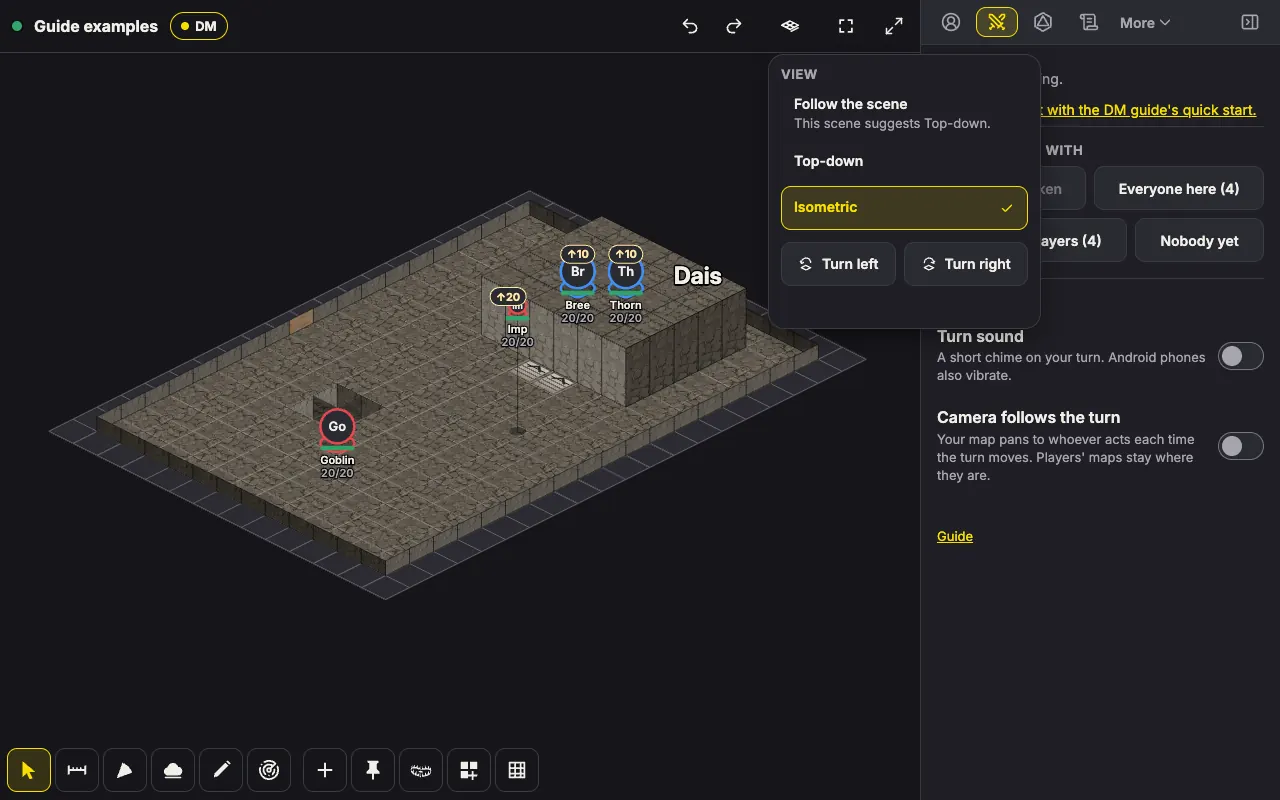
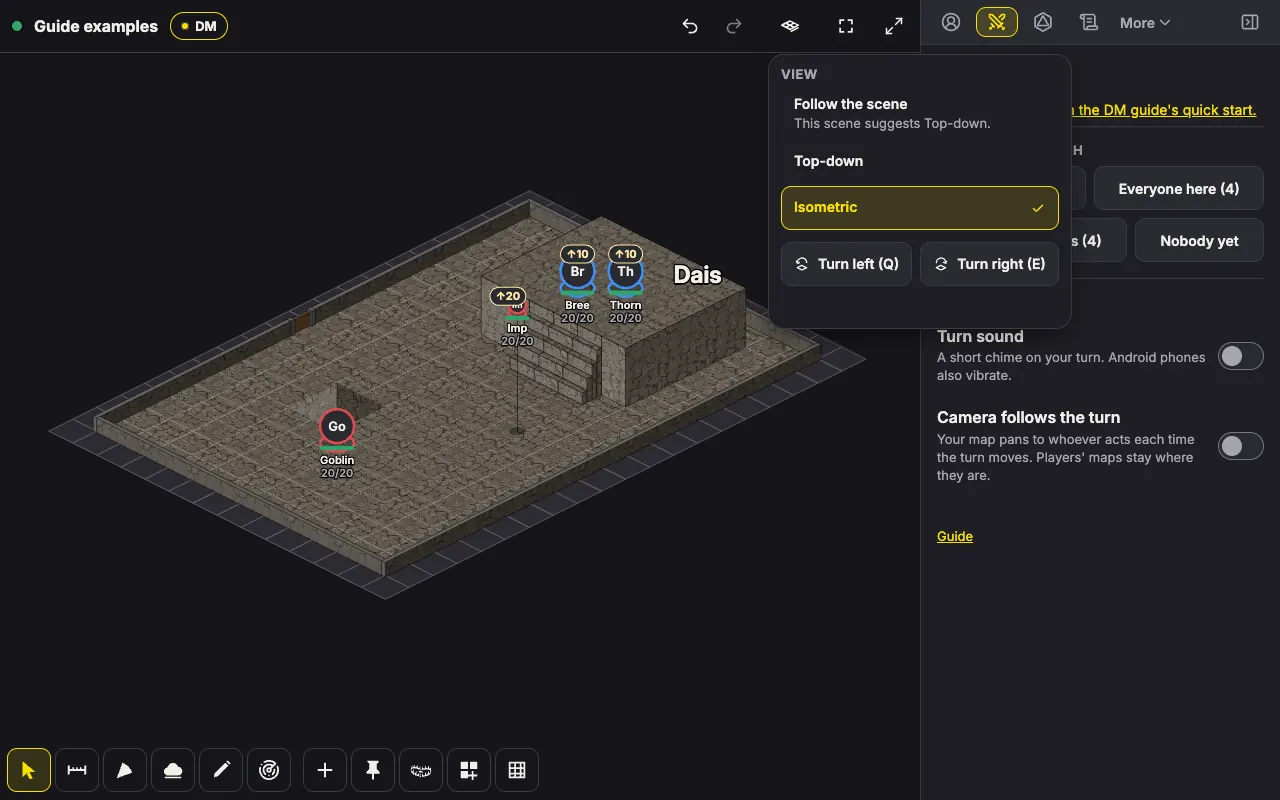
docs(guide): take the iso areas picture and a close view of stairs and an open door in the iso script, and retake its pictures

diff --git a/scripts/guide-iso.ts b/scripts/guide-iso.ts
@@ -1,8 +1,11 @@
 /**
  * The DM guide's pictures of the isometric view (docs/dm-guide.md, "The
- * isometric view", docs/design/design-v1-isometric-view.md): the DM's board in
- * Isometric, turned once, and the View menu open over it, taken from the
- * real server on the production build so they always show the app as it is.
+ * isometric view" and "Areas in Isometric", docs/design/design-v1-isometric-view.md,
+ * design-v1-iso-area-shapes.md and design-v1-iso-depth.md): the DM's board in
+ * Isometric, turned once, with the View menu open over it, then closed, then
+ * with three areas standing, and last a close view of the stairs and an
+ * open door. They are taken from the real server on the production build so
+ * they always show the app as it is.
  *
  * The scene is a stone hall with a raised dais up a stair at its west end,
  * a pit in its floor and a door in its south wall. Thorn and Bree stand on
@@ -10,8 +13,9 @@
  * floor, its shadow on the ground under it.
  *
  * It needs `pnpm build` first and a Postgres in DATABASE_URL. It makes a
- * room, writes docs/dm-guide/isometric.webp and isometric-menu.webp at
- * 1280 x 800, as the guide's other pictures are, and deletes the room:
+ * room, writes docs/dm-guide/isometric.webp, isometric-menu.webp,
+ * isometric-areas.webp and isometric-detail.webp at 1280 x 800, as the
+ * guide's other pictures are, and deletes the room:
  *
  *   DATABASE_URL=postgres://... GUIDE_PORT=3196 node scripts/guide-iso.ts
  */
@@ -30,7 +34,7 @@ const DATABASE_URL = process.env.DATABASE_URL ?? "postgres://raccoon:raccoon@loc
 const OUT = path.join(ROOT, "docs", "dm-guide");
 const WINDOW = { width: 1280, height: 800 };
 
-/** 20 by 14 squares: the hall inside a wall, the dais over columns 2 to 6, the pit at 12 to 13 by 8 to 9, and the door at (10, 12). */
+/** 20 by 14 squares: the hall inside a wall, the dais over columns 2 to 6 with a stair three squares wide up to it, the pit at 12 to 13 by 8 to 9, and the door at (10, 12). */
 const BOUNDS = { w: 20, h: 14 };
 
 function actor() {
@@ -82,7 +86,7 @@ try {
   await ops.send({ t: "scene.update", sceneId, patch: { name: "The sunken hall", bounds: BOUNDS, fogEnabled: false, autoWalls: "all", defaultView: { x: 10, y: 7, zoom: 34 } } });
   await ops.send({ t: "build.rect", sceneId, terrain: "stone", x: 1, y: 1, w: BOUNDS.w - 2, h: BOUNDS.h - 2 });
   await ops.send({ t: "build.height", sceneId, cells: cells(2, 3, 5, 6), height: 10 });
-  await ops.send({ t: "build.stairs", sceneId, cells: cells(7, 5, 1, 2), up: "w" });
+  await ops.send({ t: "build.stairs", sceneId, cells: cells(7, 4, 1, 3), up: "w" });
   await ops.send({ t: "build.height", sceneId, cells: cells(12, 8, 2, 2), height: -10 });
   const wall: EdgeFeature = { kind: "wall" };
   const edges: { key: string; feature: EdgeFeature }[] = [];
@@ -97,14 +101,15 @@ try {
   await ops.send({ t: "build.edge", sceneId, edges });
   await ops.send({ t: "build.label", sceneId, labelId: randomUUID(), label: { x: 3, y: 4, text: "Dais", size: 0.7 } });
 
-  const token = (name: string, x: number, y: number, extra: Record<string, unknown>) => ({
+  const ids = { thorn: randomUUID(), bree: randomUUID(), goblin: randomUUID(), imp: randomUUID() };
+  const token = (id: string, name: string, x: number, y: number, extra: Record<string, unknown>) => ({
     t: "token.create",
-    token: { id: randomUUID(), sceneId, kind: "monster", name, size: "medium", x, y, visibility: "all", actor: { inline: actor() }, ...extra },
+    token: { id, sceneId, kind: "monster", name, size: "medium", x, y, visibility: "all", actor: { inline: actor() }, ...extra },
   });
-  await ops.send(token("Thorn", 4, 5, { kind: "npc", disposition: "ally", elevation: 10 }));
-  await ops.send(token("Bree", 5, 6, { kind: "npc", disposition: "ally", elevation: 10 }));
-  await ops.send(token("Goblin", 14, 7, { disposition: "hostile" }));
-  await ops.send(token("Imp", 10, 4, { disposition: "hostile", size: "tiny", elevation: 20 }));
+  await ops.send(token(ids.thorn, "Thorn", 4, 5, { kind: "npc", disposition: "ally", elevation: 10 }));
+  await ops.send(token(ids.bree, "Bree", 5, 6, { kind: "npc", disposition: "ally", elevation: 10 }));
+  await ops.send(token(ids.goblin, "Goblin", 14, 7, { disposition: "hostile" }));
+  await ops.send(token(ids.imp, "Imp", 10, 4, { disposition: "hostile", size: "tiny", elevation: 20 }));
   await waitFor("the four tokens", () => (Object.keys(dmSocket.state?.tokens ?? {}).length === 4 ? true : null));
 
   // The scene's starting view, then Isometric picked and turned once from the View menu, as a DM would.
@@ -125,6 +130,35 @@ try {
   await dm.mouse.move(0, WINDOW.height / 2);
   assert.equal(await view.getAttribute("aria-label"), "View: Isometric");
   await picture(dm, "isometric");
+
+  // Areas in Isometric: the imp moves near the north wall, which cuts off the Fireball round it.
+  const dmId = dmSocket.you!.memberId;
+  await ops.send({ t: "token.update", tokenId: ids.imp, patch: { x: 14, y: 4 } });
+  const areas = { fireball: randomUUID(), guardians: randomUUID(), moonbeam: randomUUID() };
+  const area = (id: string, color: string, spell: string, t: Record<string, unknown>) =>
+    ops!.send({ t: "template.create", template: { id, sceneId, yaw: 0, includeOrigin: true, color, spell, ownerId: dmId, visibility: "all", ...t } });
+  await area(areas.fireball, "#e5484d", "Fireball", { shape: "sphere", size: 20, origin: { x: 14.5, y: 4.5, z: 20 }, casterId: ids.thorn });
+  await area(areas.guardians, "#f5d90a", "Spirit Guardians", { shape: "emanation", size: 15, origin: { x: 5.5, y: 6.5, z: 10 }, attachedTo: ids.bree, casterId: ids.bree, includeOrigin: false });
+  await area(areas.moonbeam, "#3fa7ff", "Moonbeam", { shape: "cylinder", size: 5, height: 40, origin: { x: 13, y: 9, z: -10 }, casterId: ids.bree });
+  await waitFor("the three areas", () => (Object.keys(dmSocket.state?.templates ?? {}).length === 3 ? true : null));
+  await dm.waitForTimeout(500);
+  await waitFor("every area standing", async () => ((await dm.getByText("Building area shapes…").count()) === 0 ? true : null));
+  await picture(dm, "isometric-areas");
+
+  // Close in on the stairs and the door, with the door open, the goblin climbing the back stair and the imp flown off out of the way.
+  for (const id of Object.values(areas)) await ops.send({ t: "template.delete", templateId: id });
+  await ops.send({ t: "token.update", tokenId: ids.imp, patch: { x: 19, y: 12 } });
+  await ops.send({ t: "token.update", tokenId: ids.goblin, patch: { x: 7, y: 6, elevation: 0 } });
+  await ops.send({ t: "door.set", sceneId, door: { edge: "10,13,n" }, state: "open" });
+  await ops.send({ t: "scene.update", sceneId, patch: { defaultView: { x: 8, y: 10, zoom: 96 } } });
+  await dm.reload();
+  // Isometric's board is the visible stage now, Top-down's hidden under it.
+  await dm.locator(".konvajs-content:visible").first().waitFor();
+  await waitFor("Isometric after the reload", async () => ((await view.getAttribute("aria-label")) === "View: Isometric" ? true : null));
+  // The side panel hidden, so the close view has the window.
+  await dm.getByRole("button", { name: "Hide panels" }).click();
+  await dm.mouse.move(0, WINDOW.height / 2);
+  await picture(dm, "isometric-detail");
 } finally {
   ops?.close();
   if (roomId) await dmContext.request.delete(`${server.origin}/api/rooms/${roomId}`, { headers: { Origin: server.origin }, data: { name: roomName } }).catch(() => undefined);
